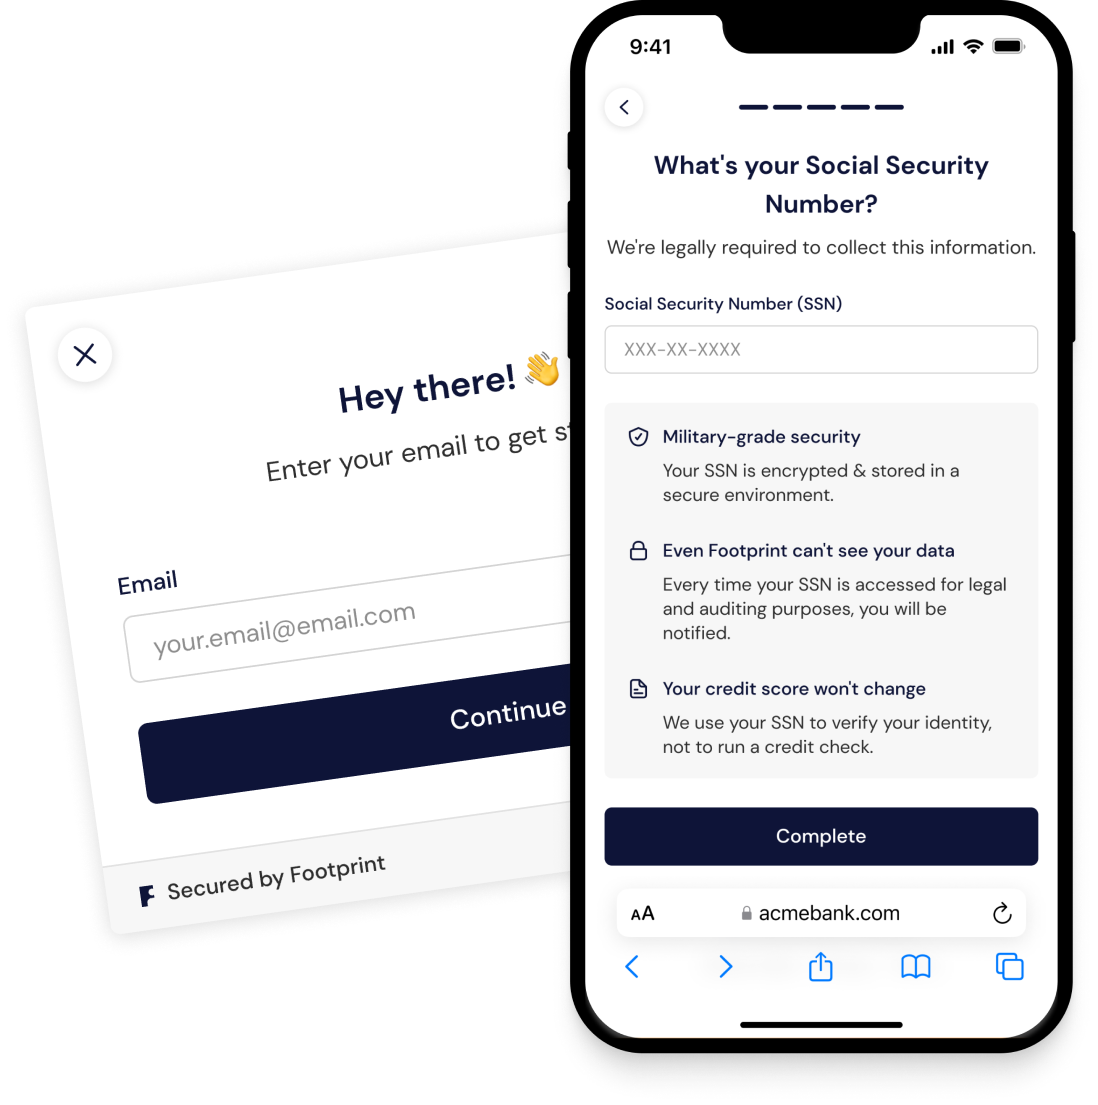
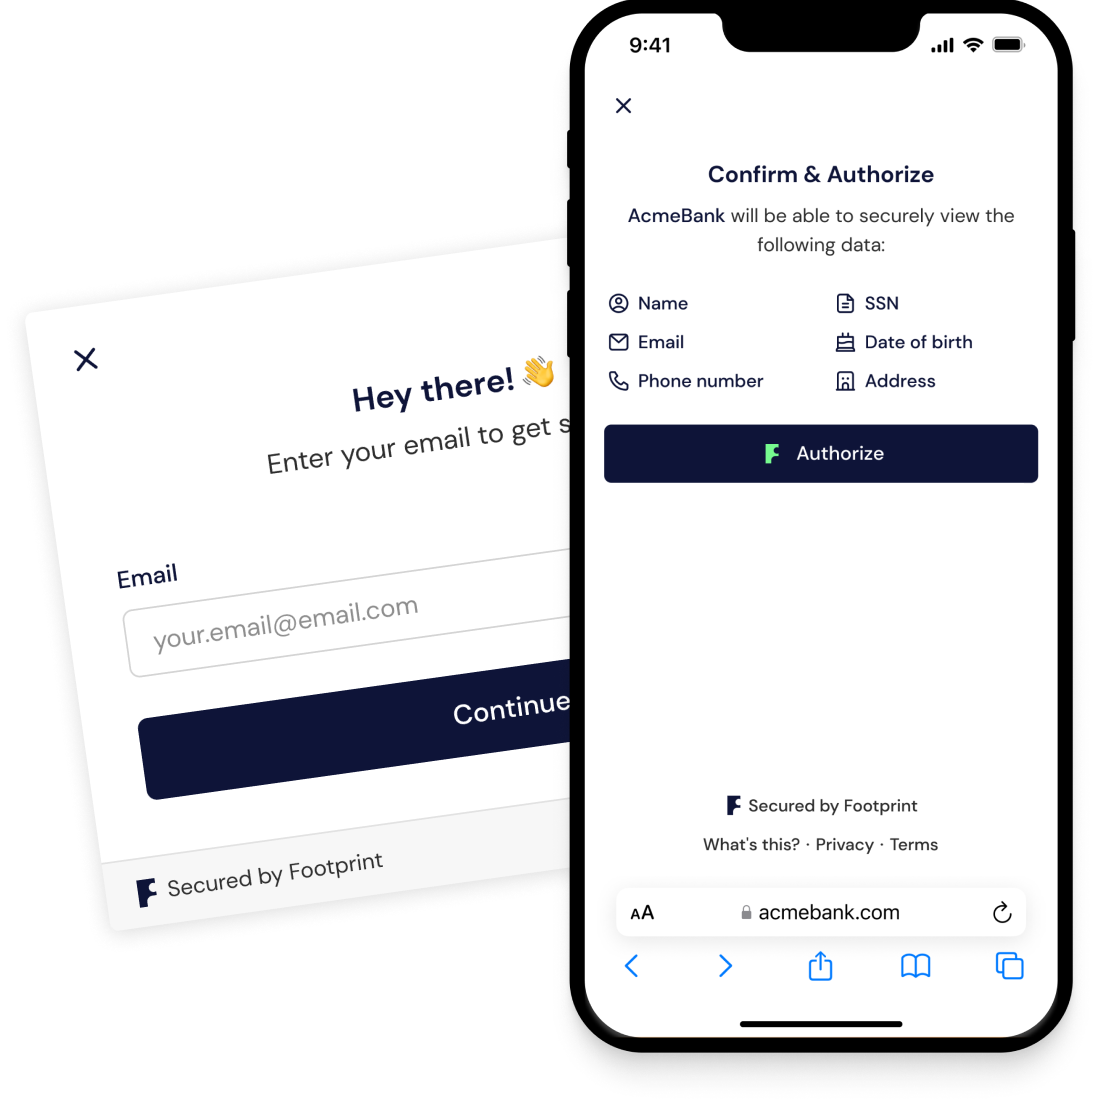
[FP-420] Landing page adjustments (#435)
* [FP-420] Landing page adjustments

* more

* icons

diff --git a/frontend/packages/icons/src/icos.ts b/frontend/packages/icons/src/icos.ts
@@ -1,6 +1,8 @@
 /**
  * THIS IS AN AUTO-GENERATED FILE, DO NOT EDIT MANUALLY
  */
+import IcoAndroidColored16 from '../ico/ico-android-colored-16';
+import IcoAndroidColored24 from '../ico/ico-android-colored-24';
 import IcoAppleColored16 from '../ico/ico-apple-colored-16';
 import IcoAppleColored24 from '../ico/ico-apple-colored-24';
 import IcoAppleColored40 from '../ico/ico-apple-colored-40';
@@ -62,6 +64,8 @@ import IcoFootprint24 from '../ico/ico-footprint-24';
 import IcoFootprint40 from '../ico/ico-footprint-40';
 import IcoGoogleColored16 from '../ico/ico-google-colored-16';
 import IcoGoogleColored24 from '../ico/ico-google-colored-24';
+import IcoHelp16 from '../ico/ico-help-16';
+import IcoHelp24 from '../ico/ico-help-24';
 import IcoInfo16 from '../ico/ico-info-16';
 import IcoInfo24 from '../ico/ico-info-24';
 import IcoLock16 from '../ico/ico-lock-16';
@@ -95,6 +99,7 @@ import IcoUsers16 from '../ico/ico-users-16';
 import IcoUsers24 from '../ico/ico-users-24';
 
 export default {
+  IcoAndroidColored16,
   IcoAppleColored16,
   IcoArrowDown16,
   IcoArrowLeftSmall16,
@@ -124,6 +129,7 @@ export default {
   IcoFileText216,
   IcoFootprint16,
   IcoGoogleColored16,
+  IcoHelp16,
   IcoInfo16,
   IcoLock16,
   IcoLogOut16,
@@ -139,6 +145,7 @@ export default {
   IcoUser16,
   IcoUserCircle16,
   IcoUsers16,
+  IcoAndroidColored24,
   IcoAppleColored24,
   IcoArrowDown24,
   IcoArrowLeftSmall24,
@@ -168,6 +175,7 @@ export default {
   IcoFileText24,
   IcoFootprint24,
   IcoGoogleColored24,
+  IcoHelp24,
   IcoInfo24,
   IcoLock24,
   IcoLogOut24,

diff --git a/frontend/packages/icons/ico/ico-help-16.tsx b/frontend/packages/icons/ico/ico-help-16.tsx
@@ -1,0 +1,28 @@
+import React from 'react';
+import { useTheme } from 'styled-components';
+
+import type { IconProps } from '../src/types';
+
+const IcoHelp16 = ({ color = 'primary', className, testID }: IconProps) => {
+  const theme = useTheme();
+  return (
+    <svg
+      width={16}
+      height={16}
+      fill="none"
+      xmlns="http://www.w3.org/2000/svg"
+      data-testid={testID}
+      className={className}
+      aria-hidden="true"
+    >
+      <path
+        fillRule="evenodd"
+        clipRule="evenodd"
+        d="M2.45 8.094a5.62 5.62 0 0 1 1.189-3.465l1.503 1.503a3.527 3.527 0 0 0-.592 1.962c0 .725.218 1.4.592 1.962l-1.503 1.503A5.62 5.62 0 0 1 2.45 8.094Zm3.682-2.952L4.629 3.64A5.62 5.62 0 0 1 8.094 2.45a5.62 5.62 0 0 1 3.465 1.189l-1.503 1.503a3.527 3.527 0 0 0-1.962-.592c-.726 0-1.4.218-1.962.592Zm4.913.99c.374.562.592 1.236.592 1.962 0 .725-.218 1.4-.592 1.962l1.504 1.503a5.62 5.62 0 0 0 1.189-3.465 5.62 5.62 0 0 0-1.19-3.465l-1.503 1.503Zm-.99 4.913a3.527 3.527 0 0 1-1.961.592c-.726 0-1.4-.218-1.962-.592L4.629 12.55a5.62 5.62 0 0 0 3.465 1.189 5.62 5.62 0 0 0 3.465-1.19l-1.503-1.503ZM8.095 1.05a7.044 7.044 0 1 0 0 14.088 7.044 7.044 0 0 0 0-14.088ZM5.95 8.094a2.144 2.144 0 1 1 4.287 0 2.144 2.144 0 0 1-4.287 0Z"
+        fill={theme.color[color]}
+      />
+    </svg>
+  );
+};
+
+export default IcoHelp16;

diff --git a/frontend/packages/icons/ico/ico-help-24.tsx b/frontend/packages/icons/ico/ico-help-24.tsx
@@ -1,0 +1,28 @@
+import React from 'react';
+import { useTheme } from 'styled-components';
+
+import type { IconProps } from '../src/types';
+
+const IcoHelp24 = ({ color = 'primary', className, testID }: IconProps) => {
+  const theme = useTheme();
+  return (
+    <svg
+      width={24}
+      height={24}
+      fill="none"
+      xmlns="http://www.w3.org/2000/svg"
+      data-testid={testID}
+      className={className}
+      aria-hidden="true"
+    >
+      <path
+        fillRule="evenodd"
+        clipRule="evenodd"
+        d="M5.5 12c0-1.525.525-2.927 1.404-4.035l1.787 1.787A3.982 3.982 0 0 0 8 12c0 .834.255 1.607.691 2.248l-1.787 1.787A6.472 6.472 0 0 1 5.5 12Zm4.252-3.309L7.965 6.904A6.472 6.472 0 0 1 12 5.5c1.525 0 2.927.525 4.035 1.404l-1.787 1.787A3.981 3.981 0 0 0 12 8c-.834 0-1.607.255-2.248.691Zm5.557 1.06c.436.642.691 1.415.691 2.249 0 .834-.255 1.607-.691 2.248l1.787 1.787A6.472 6.472 0 0 0 18.5 12a6.473 6.473 0 0 0-1.404-4.035l-1.787 1.787Zm-1.06 5.558A3.982 3.982 0 0 1 12 16a3.982 3.982 0 0 1-2.248-.691l-1.787 1.787A6.473 6.473 0 0 0 12 18.5a6.472 6.472 0 0 0 4.035-1.404l-1.787-1.787ZM12 4a8 8 0 1 0 0 16 8 8 0 0 0 0-16Zm-2.5 8a2.5 2.5 0 1 1 5 0 2.5 2.5 0 0 1-5 0Z"
+        fill={theme.color[color]}
+      />
+    </svg>
+  );
+};
+
+export default IcoHelp24;

diff --git a/frontend/apps/bifrost/src/pages/confirmation/confirmation.tsx b/frontend/apps/bifrost/src/pages/confirmation/confirmation.tsx
@@ -1,7 +1,7 @@
 import IcoBuilding24 from 'icons/ico/ico-building-24';
+import IcoCake24 from 'icons/ico/ico-cake-24';
 import IcoEmail24 from 'icons/ico/ico-email-24';
 import IcoFileText24 from 'icons/ico/ico-file-text-24';
-import IcoInfo24 from 'icons/ico/ico-info-24';
 import IcoPhone24 from 'icons/ico/ico-phone-24';
 import IcoUserCircle24 from 'icons/ico/ico-user-circle-24';
 import React from 'react';
@@ -47,7 +47,7 @@ const IconsByUserDataAttributes: Record<
   [UserDataAttributeCategory.email]: <IcoEmail24 />,
   [UserDataAttributeCategory.phoneNumber]: <IcoPhone24 />,
   [UserDataAttributeCategory.ssn]: <IcoFileText24 />,
-  [UserDataAttributeCategory.dob]: <IcoInfo24 />, // TODO: replace with cake icon
+  [UserDataAttributeCategory.dob]: <IcoCake24 />,
   [UserDataAttributeCategory.address]: <IcoBuilding24 />,
 };
 
@@ -70,7 +70,7 @@ const Confirmation = () => {
     <Container>
       <HeaderTitle
         title="Confirm & Authorize"
-        subtitle={`The following data will be shared with ${state.context.tenant.name}:`}
+        subtitle={`${state.context.tenant.name} will be able to securely view the following data:`}
       />
       <CategoriesContainer>
         {requiredCategories.map((category: UserDataAttributeCategory) => (

diff --git a/frontend/packages/icons/ico/ico-android-colored-24.tsx b/frontend/packages/icons/ico/ico-android-colored-24.tsx
@@ -1,0 +1,22 @@
+import React from 'react';
+
+import type { IconProps } from '../src/types';
+
+const IcoAndroidColored24 = ({ className, testID }: IconProps) => (
+  <svg
+    width={24}
+    height={24}
+    fill="none"
+    xmlns="http://www.w3.org/2000/svg"
+    data-testid={testID}
+    className={className}
+    aria-hidden="true"
+  >
+    <path
+      d="M9.21 4.013c-.042.008-.085.016-.12.04a.326.326 0 0 0-.08.45l.69 1.03c-1.067.565-1.862 1.504-2.12 2.63h8.838c-.26-1.126-1.054-2.065-2.12-2.63l.69-1.03a.326.326 0 0 0-.08-.45.328.328 0 0 0-.45.09l-.76 1.12a4.949 4.949 0 0 0-3.399 0l-.76-1.12a.321.321 0 0 0-.33-.13Zm1.029 2.55a.48.48 0 1 1 0 .96.48.48 0 0 1 0-.96Zm3.52 0a.48.48 0 1 1 0 .958.48.48 0 0 1 0-.958Zm-7.2 2.24a.96.96 0 0 0-.959.96v4.478c0 .53.43.96.96.96a.94.94 0 0 0 .32-.06V8.862a.938.938 0 0 0-.32-.06Zm.96 0v7.038c0 .528.432.96.96.96h7.039c.529 0 .96-.431.96-.96V8.802H7.52Zm9.918 0a.938.938 0 0 0-.32.06v6.278c.1.035.208.06.32.06.53 0 .96-.43.96-.96V9.762a.96.96 0 0 0-.96-.96ZM8.8 17.44v1.28a1.28 1.28 0 0 0 2.56 0v-1.28h-2.56Zm3.84 0v1.28a1.28 1.28 0 0 0 2.559 0v-1.28h-2.56Z"
+      fill="#000"
+    />
+  </svg>
+);
+
+export default IcoAndroidColored24;

diff --git a/frontend/packages/icons/ico/ico-android-colored-16.tsx b/frontend/packages/icons/ico/ico-android-colored-16.tsx
@@ -1,0 +1,22 @@
+import React from 'react';
+
+import type { IconProps } from '../src/types';
+
+const IcoAndroidColored16 = ({ className, testID }: IconProps) => (
+  <svg
+    width={16}
+    height={16}
+    fill="none"
+    xmlns="http://www.w3.org/2000/svg"
+    data-testid={testID}
+    className={className}
+    aria-hidden="true"
+  >
+    <path
+      d="M5.384.513C5.345.52 5.305.527 5.27.55a.305.305 0 0 0-.075.422l.647.965c-1 .53-1.745 1.41-1.987 2.465h8.286c-.243-1.055-.988-1.935-1.987-2.465L10.8.972a.305.305 0 0 0-.075-.422.307.307 0 0 0-.422.085l-.712 1.05a4.64 4.64 0 0 0-3.187 0L5.693.634a.301.301 0 0 0-.31-.122Zm.965 2.39a.45.45 0 1 1 0 .9.45.45 0 0 1 0-.9Zm3.3 0a.45.45 0 1 1 0 .898.45.45 0 0 1 0-.898Zm-6.75 2.1a.9.9 0 0 0-.899.9V10.1a.9.9 0 0 0 .9.9.88.88 0 0 0 .3-.056V5.059a.88.88 0 0 0-.3-.057Zm.9 0V11.6c0 .495.405.9.9.9h6.599c.496 0 .9-.405.9-.9V5.002H3.8Zm9.299 0a.88.88 0 0 0-.3.056v5.886a.907.907 0 0 0 .3.056.9.9 0 0 0 .9-.9V5.902a.9.9 0 0 0-.9-.9ZM4.999 13.1v1.2a1.2 1.2 0 0 0 2.4 0v-1.2h-2.4Zm3.6 0v1.2a1.2 1.2 0 0 0 2.399 0v-1.2h-2.4Z"
+      fill="#000"
+    />
+  </svg>
+);
+
+export default IcoAndroidColored16;

diff --git a/frontend/packages/icons/ico/ico-close-small-24.tsx b/frontend/packages/icons/ico/ico-close-small-24.tsx
@@ -22,7 +22,7 @@ const IcoCloseSmall24 = ({
       <path
         fillRule="evenodd"
         clipRule="evenodd"
-        d="M16.903 8.366a.9.9 0 0 0-1.273-1.272l-3.632 3.631-3.632-3.631a.9.9 0 0 0-1.272 1.272l3.631 3.632-3.631 3.632a.9.9 0 0 0 1.272 1.273l3.632-3.632 3.632 3.632a.9.9 0 0 0 1.273-1.273l-3.632-3.632 3.632-3.632Z"
+        d="M16.903 8.366a.9.9 0 0 0-1.273-1.272l-3.632 3.631-3.632-3.631a.9.9 0 0 0-1.272 1.272l3.631 3.632-3.631 3.632a.9.9 0 0 0 1.272 1.273l3.632-3.632 3.632 3.632a.9.9 0 1 0 1.273-1.273l-3.632-3.632 3.632-3.632Z"
         fill={theme.color[color]}
       />
     </svg>

diff --git a/frontend/packages/icons/ico/ico-arrow-up-24.tsx b/frontend/packages/icons/ico/ico-arrow-up-24.tsx
@@ -18,7 +18,7 @@ const IcoArrowUp24 = ({ color = 'primary', className, testID }: IconProps) => {
       <path
         fillRule="evenodd"
         clipRule="evenodd"
-        d="M11.254 18.348a.75.75 0 1 0 1.5 0V7.531l3.301 3.458a.75.75 0 0 0 1.085-1.035l-4.594-4.813a.75.75 0 0 0-1.085 0L6.867 9.955a.75.75 0 1 0 1.086 1.035l3.3-3.458v10.816Z"
+        d="M11.254 18.348a.75.75 0 1 0 1.5 0V7.531l3.301 3.458a.75.75 0 1 0 1.085-1.035l-4.594-4.813a.75.75 0 0 0-1.085 0L6.867 9.955a.75.75 0 0 0 1.086 1.035l3.3-3.458v10.816Z"
         fill={theme.color[color]}
       />
     </svg>

diff --git a/frontend/packages/icons/ico/ico-arrow-down-24.tsx b/frontend/packages/icons/ico/ico-arrow-down-24.tsx
@@ -22,7 +22,7 @@ const IcoArrowDown24 = ({
       <path
         fillRule="evenodd"
         clipRule="evenodd"
-        d="M12.754 5.66a.75.75 0 0 0-1.5 0v10.816l-3.301-3.459a.75.75 0 0 0-1.086 1.036l4.594 4.812a.75.75 0 0 0 1.085 0l4.594-4.812a.75.75 0 0 0-1.085-1.036l-3.301 3.459V5.66Z"
+        d="M12.754 5.66a.75.75 0 0 0-1.5 0v10.816l-3.301-3.459a.75.75 0 1 0-1.086 1.036l4.594 4.812a.75.75 0 0 0 1.085 0l4.594-4.812a.75.75 0 0 0-1.085-1.036l-3.301 3.459V5.66Z"
         fill={theme.color[color]}
       />
     </svg>
